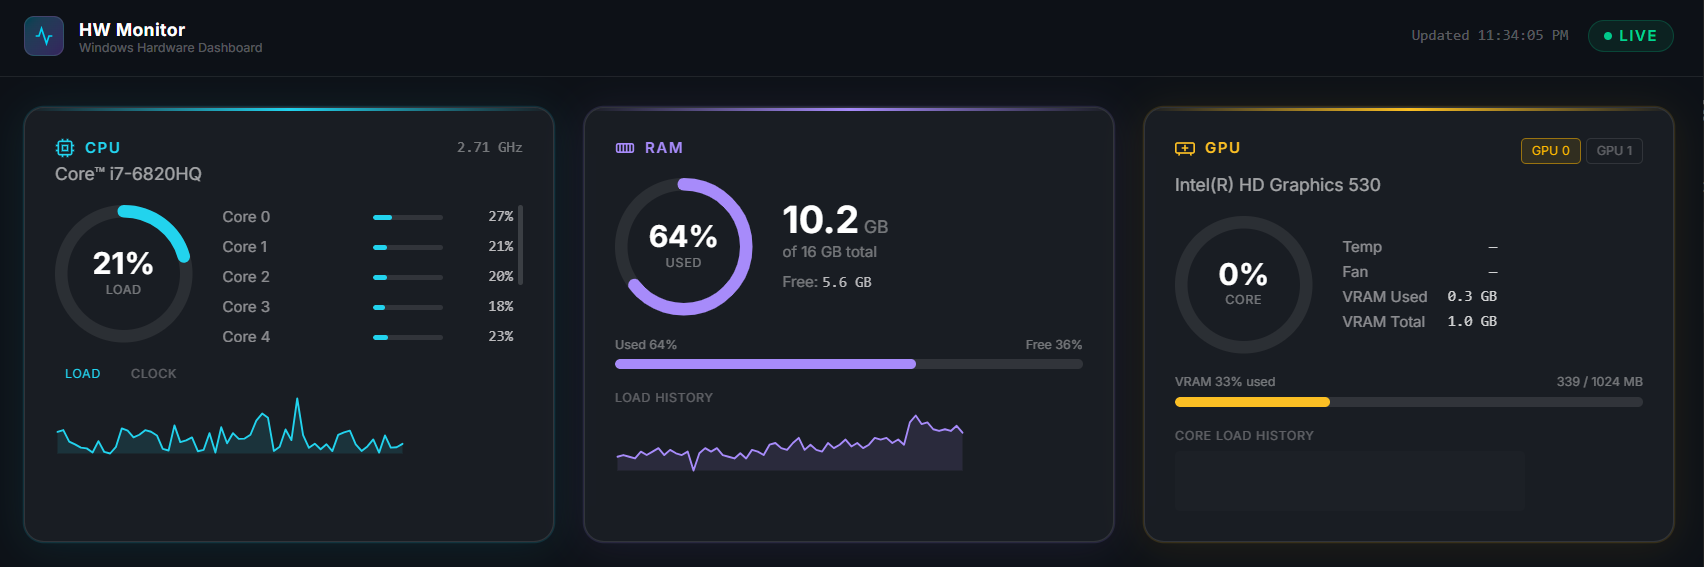
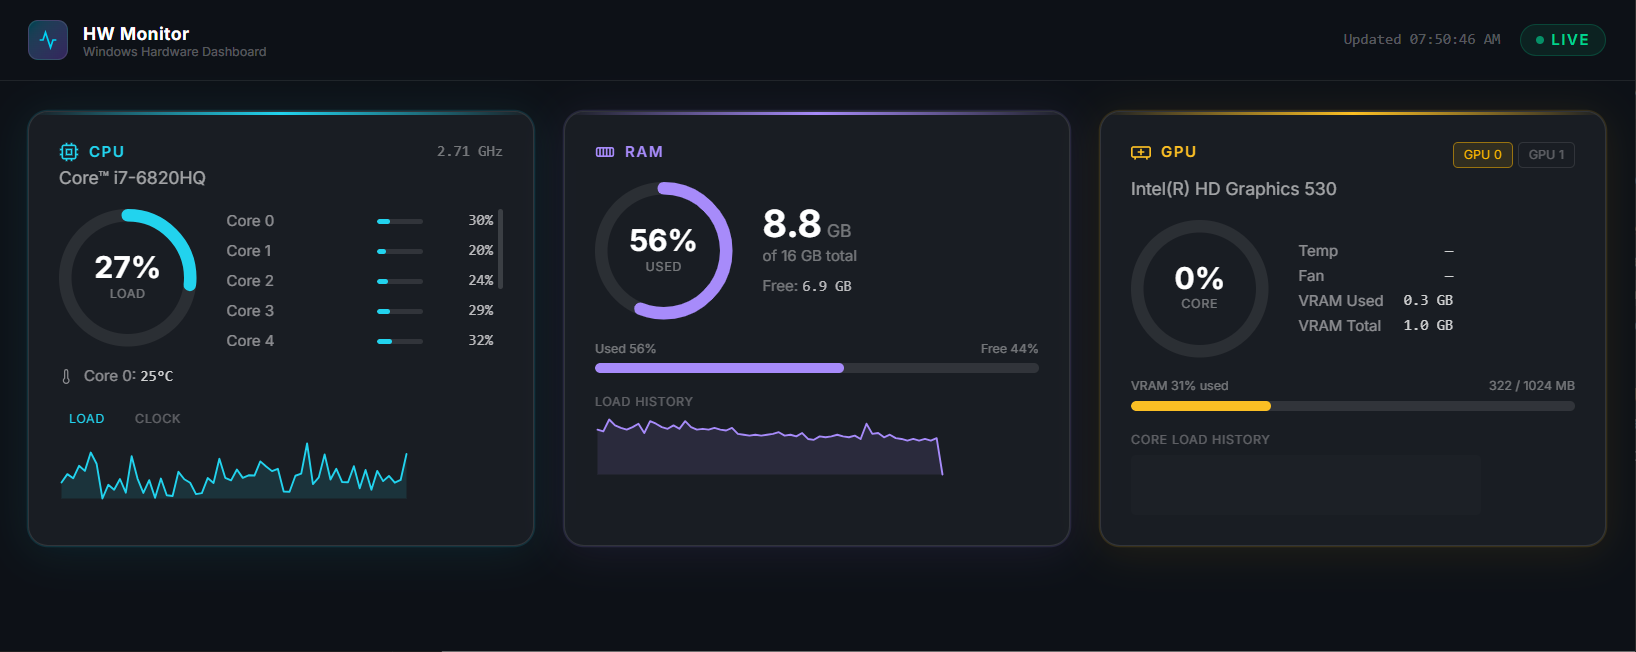
Updated screens and readme

diff --git a/README.md b/README.md
@@ -54,6 +54,9 @@ cp .env.sample .env      # then set CORS_ORIGIN=http://localhost:5173
 # Terminal A — hardware collector (Windows host)
 npm run collector
 
+Note: For PowerShell running as an Administrator run this first:
+Set-ExecutionPolicy -ExecutionPolicy RemoteSigned -Scope CurrentUser
+
 # Terminal B — GraphQL server with hot-reload
 npm run dev:graphql
 ```